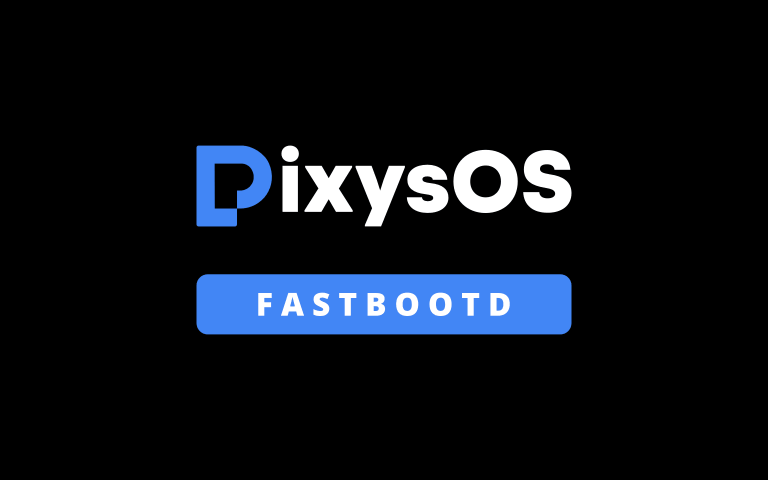
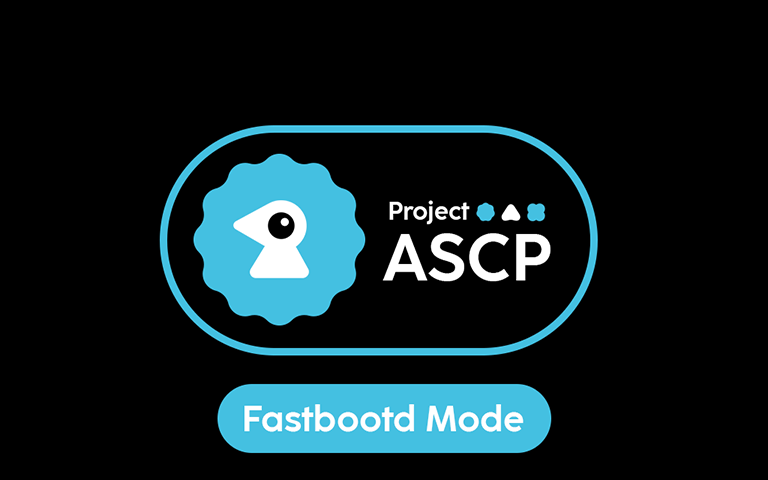
recovery: Rebrand for ASCP Recovery

Changed region(s): [[0.1875, 0.25, 0.7812, 0.75], [0.2812, 0.7812, 0.7188, 0.9688]]

diff --git a/recovery_ui/screen_ui.cpp b/recovery_ui/screen_ui.cpp
@@ -591,10 +591,13 @@ void ScreenRecoveryUI::SetColor(UIElement e) const {
         gr_color(0xc7, 0x15, 0x85, 255);
       break;
     case UIElement::INFO:
-        gr_color(0x42, 0x85, 0xf4, 255);
+      gr_color(0xfd, 0xd8, 0x35, 255);
       break;
     case UIElement::HEADER:
-        gr_color(0x42, 0x85, 0xf4, 255);
+      if (fastbootd_logo_enabled_)
+        gr_color(0xfd, 0xd8, 0x35, 255);
+      else
+        gr_color(0xfd, 0xd8, 0x35, 255);
       break;
     case UIElement::MENU:
       gr_color(0xd8, 0xd8, 0xd8, 255);
@@ -607,19 +610,22 @@ void ScreenRecoveryUI::SetColor(UIElement e) const {
       break;
     case UIElement::MENU_SEL_BG:
     case UIElement::SCROLLBAR:
-        gr_color(0x42, 0x85, 0xf4, 255);
+      if (fastbootd_logo_enabled_)
+        gr_color(68, 192, 225, 255);
+      else
+        gr_color(68, 192, 225, 255);
       break;
     case UIElement::MENU_SEL_BG_ACTIVE:
-      gr_color(0, 156, 100, 255);
+      gr_color(164, 185, 228, 255);
       break;
     case UIElement::MENU_SEL_FG:
-        gr_color(0xd8, 0xd8, 0xd8, 255);
+      gr_color(0, 0, 0, 255);
       break;
     case UIElement::LOG:
       gr_color(196, 196, 196, 255);
       break;
     case UIElement::TEXT_FILL:
-      gr_color(0, 0, 0, 160);
+      gr_color(255, 255, 255, 255);
       break;
     default:
       gr_color(255, 255, 255, 255);
@@ -830,7 +836,7 @@ void ScreenRecoveryUI::draw_menu_and_text_buffer_locked(
   int y = margin_height_;
 
   if (menu_) {
-    auto& logo = fastbootd_logo_enabled_ ? fastbootd_logo_ : default_logo;
+    auto& logo = fastbootd_logo_enabled_ ? fastbootd_logo_ : ascp_logo_;
     auto logo_width = gr_get_width(logo.get());
     auto logo_height = gr_get_height(logo.get());
     auto centered_x = ScreenWidth() / 2 - logo_width / 2;
@@ -879,7 +885,7 @@ void ScreenRecoveryUI::draw_menu_and_text_buffer_locked(
 // Draws the battery capacity on the screen. Should only be called with updateMutex locked.
 void ScreenRecoveryUI::draw_battery_capacity_locked() {
   int x;
-  int y = margin_height_ + gr_get_height(lineage_logo_.get());
+  int y = margin_height_ + gr_get_height(ascp_logo_.get());
   int icon_x, icon_y, icon_h, icon_w;
 
   if (is_battery_less) return;
@@ -1187,12 +1193,14 @@ bool ScreenRecoveryUI::Init(const std::string& locale) {
   no_command_text_ = LoadLocalizedBitmap("no_command_text");
   error_text_ = LoadLocalizedBitmap("error_text");
 
-  default_logo = LoadBitmap("logo_image");
   back_icon_ = LoadBitmap("ic_back");
   back_icon_sel_ = LoadBitmap("ic_back_sel");
   if (android::base::GetBoolProperty("ro.boot.dynamic_partitions", false) ||
       android::base::GetBoolProperty("ro.fastbootd.available", true)) {
+    ascp_logo_ = LoadBitmap("logo_image_switch");    
     fastbootd_logo_ = LoadBitmap("fastbootd");
+  } else {
+    ascp_logo_ = LoadBitmap("logo_image");
   }
 
   // Background text for "installing_update" could be "installing update" or
@@ -1527,8 +1535,8 @@ int ScreenRecoveryUI::SelectMenu(const Point& p) {
   if (menu_) {
     if (!menu_->IsMain()) {
       // Back arrow hitbox
-      const static int logo_width = gr_get_width(default_logo.get());
-      const static int logo_height = gr_get_height(default_logo.get());
+      const static int logo_width = gr_get_width(ascp_logo_.get());
+      const static int logo_height = gr_get_height(ascp_logo_.get());
       const static int icon_w = gr_get_width(back_icon_.get());
       const static int icon_h = gr_get_height(back_icon_.get());
       const static int centered_x = ScreenWidth() / 2 - logo_width / 2;

diff --git a/recovery.cpp b/recovery.cpp
@@ -883,7 +883,18 @@ Device::BuiltinAction start_recovery(Device* device, const std::vector<std::stri
     ui->SetStage(st_cur, st_max);
   }
 
-  std::vector<std::string> title_lines = {};
+  // Extract the YYYYMMDD / YYYYMMDD_HHMMSS timestamp from the full version string.
+  // Assume the first instance of "-[0-9]{8}-", or "-[0-9]{8}_[0-9]{6}-" in case
+  // ASCP_VERSION_APPEND_TIME_OF_DAY is set to true has the desired date.
+  std::string ver = android::base::GetProperty("ro.ascp.build.version", "");
+  std::smatch ver_date_match;
+  std::regex_search(ver, ver_date_match, std::regex("-(\\d{8}(_\\d{6})?)-"));
+  std::string ver_date = ver_date_match.str(1);  // Empty if no match.
+
+  std::vector<std::string> title_lines = {
+    "Version: " + android::base::GetProperty("ro.ascp.build.version", "(unknown)") +
+        " " + ver_date,
+  };
   title_lines.push_back("Product name - " + android::base::GetProperty("ro.product.device", ""));
   if (android::base::GetBoolProperty("ro.build.ab_update", false)) {
     std::string slot = android::base::GetProperty("ro.boot.slot_suffix", "");

diff --git a/recovery_ui/include/recovery_ui/screen_ui.h b/recovery_ui/include/recovery_ui/screen_ui.h
@@ -152,7 +152,7 @@ class TextMenu : public Menu {
   size_t MenuEnd() const;
 
   // Menu example:
-  // info:                           Lineage Recovery
+  // info:                           ASCP Recovery
   //                                 ....
   // help messages:                  Swipe up/down to move
   //                                 Swipe left/right to select
@@ -475,7 +475,7 @@ class ScreenRecoveryUI : public RecoveryUI, public DrawInterface {
   std::unique_ptr<GRSurface> wipe_data_confirmation_text_;
   std::unique_ptr<GRSurface> wipe_data_menu_header_text_;
 
-  std::unique_ptr<GRSurface> default_logo;
+  std::unique_ptr<GRSurface> ascp_logo_;
   std::unique_ptr<GRSurface> back_icon_;
   std::unique_ptr<GRSurface> back_icon_sel_;
   std::unique_ptr<GRSurface> fastbootd_logo_;
